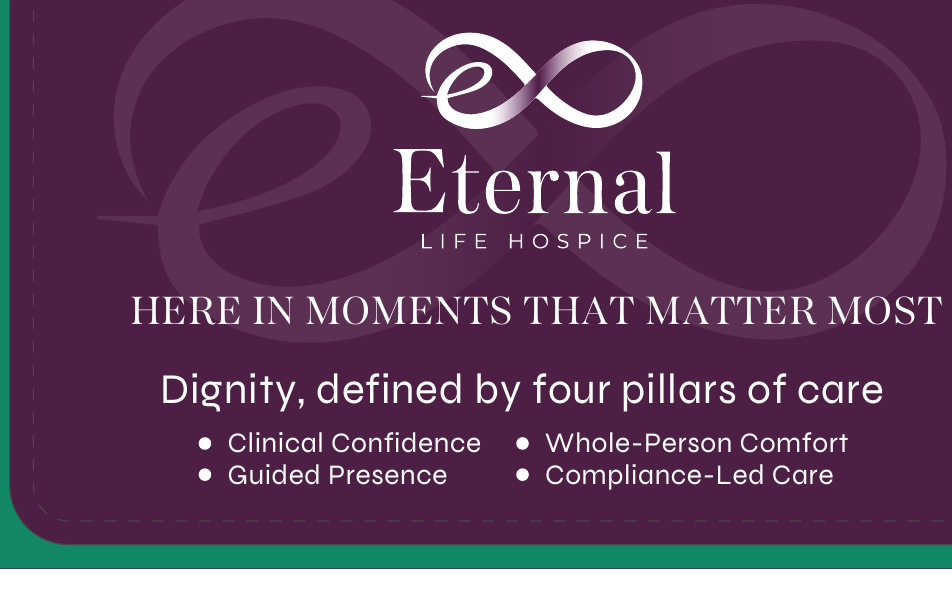
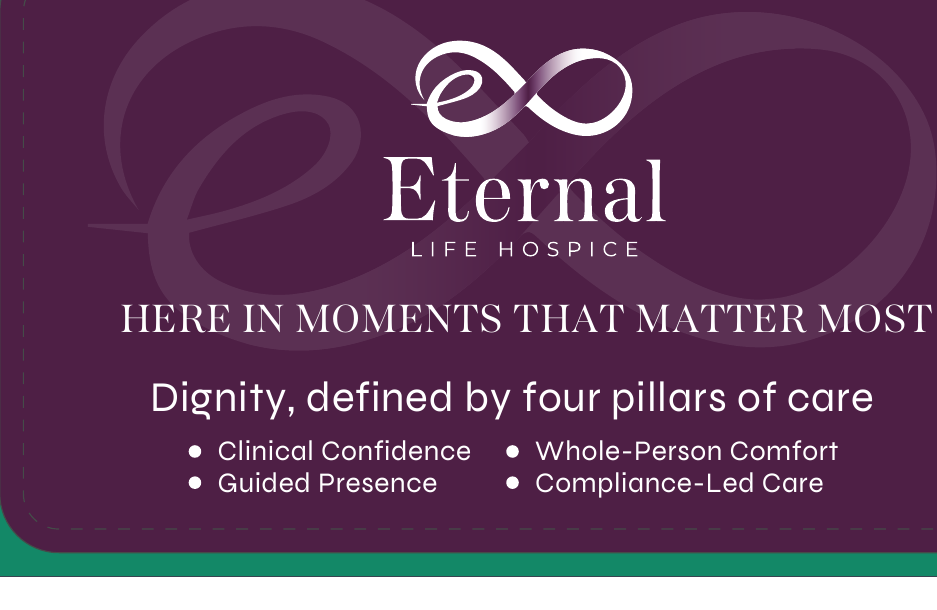
Improve header spacing and round business card corners
Adjusted header padding and image height in `card-aleksandra-dubina.html`. Modified `aspect-ratio` and `border-radius` for `.flip-scene` and `.flip-face` respectively. Updated image assets `biz-card-back.png` and `biz-card-front.png`.

Replit-Commit-Author: Agent
Replit-Commit-Session-Id: 1b958849-79a5-4566-be53-e68529931cd0
Replit-Commit-Checkpoint-Type: full_checkpoint
Replit-Commit-Event-Id: 5d6838e9-425a-4a94-8e72-31ea01af7fe3
Replit-Commit-Screenshot-Url: https://storage.googleapis.com/screenshot-production-us-central1/e1b2f643-7869-4565-af0e-10c34575ee8d/1b958849-79a5-4566-be53-e68529931cd0/OfkYI3N
Replit-Helium-Checkpoint-Created: true

diff --git a/website/elh-preview/card-aleksandra-dubina.html b/website/elh-preview/card-aleksandra-dubina.html
@@ -14,11 +14,11 @@ body{background:#F5F0EB;font-family:Arial,Helvetica,sans-serif;min-height:100vh;
 .card{width:100%;max-width:420px;background:#fff;box-shadow:0 4px 32px rgba(61,20,84,.13);}
 
 /* Header band */
-.hd{background:#3C1C3B;padding:22px 24px 18px;text-align:center;}
-.hd img{height:52px;width:auto;}
+.hd{background:#3C1C3B;padding:32px 24px 44px;text-align:center;}
+.hd img{height:56px;width:auto;}
 
 /* Photo + LinkedIn badge */
-.photo-wrap{display:flex;justify-content:center;margin-top:-44px;margin-bottom:0;position:relative;z-index:2;}
+.photo-wrap{display:flex;justify-content:center;margin-top:-52px;margin-bottom:0;position:relative;z-index:2;}
 .photo-group{position:relative;display:inline-block;}
 .photo{width:90px;height:90px;border-radius:50%;border:3px solid #C9B07E;object-fit:cover;object-position:top;background:#EDE6DE;display:block;}
 .linkedin-badge{position:absolute;bottom:0;right:-10px;width:28px;height:28px;background:#0A66C2;border-radius:50%;border:2px solid #fff;display:flex;align-items:center;justify-content:center;text-decoration:none;}
@@ -52,12 +52,12 @@ body{background:#F5F0EB;font-family:Arial,Helvetica,sans-serif;min-height:100vh;
 .flip-section{padding:24px 20px 0;}
 .flip-label{text-align:center;font-size:9px;letter-spacing:1.5px;text-transform:uppercase;color:#8A7080;margin-bottom:10px;}
 
-.flip-scene{width:100%;aspect-ratio:1145/595;perspective:900px;cursor:pointer;}
+.flip-scene{width:100%;aspect-ratio:1163/598;perspective:900px;cursor:pointer;}
 .flip-inner{width:100%;height:100%;position:relative;transform-style:preserve-3d;transition:transform .55s cubic-bezier(.4,0,.2,1);}
 .flip-inner.flipped{transform:rotateY(180deg);}
 
-.flip-face{position:absolute;inset:0;width:100%;height:100%;backface-visibility:hidden;-webkit-backface-visibility:hidden;border-radius:10px;overflow:hidden;box-shadow:0 3px 18px rgba(61,20,84,.22);}
-.flip-face img{width:100%;height:100%;object-fit:cover;display:block;}
+.flip-face{position:absolute;inset:0;width:100%;height:100%;backface-visibility:hidden;-webkit-backface-visibility:hidden;border-radius:12px;overflow:hidden;box-shadow:0 3px 18px rgba(61,20,84,.22);}
+.flip-face img{width:100%;height:100%;object-fit:cover;object-position:center;display:block;}
 .flip-face.back{transform:rotateY(180deg);}
 
 .flip-hint{text-align:center;margin-top:8px;font-size:10px;color:#A07C36;letter-spacing:.4px;display:flex;align-items:center;justify-content:center;gap:5px;}
